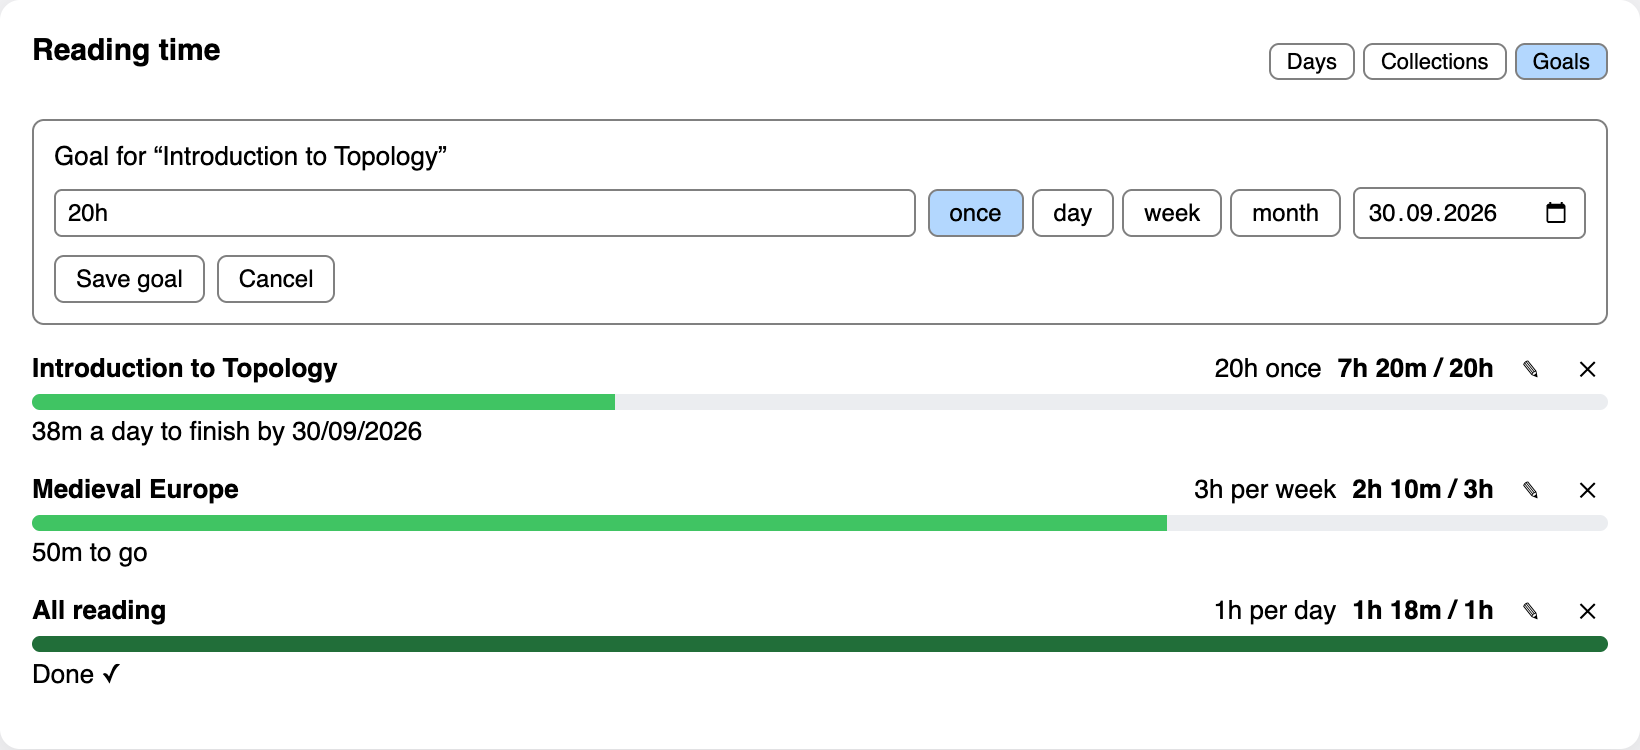
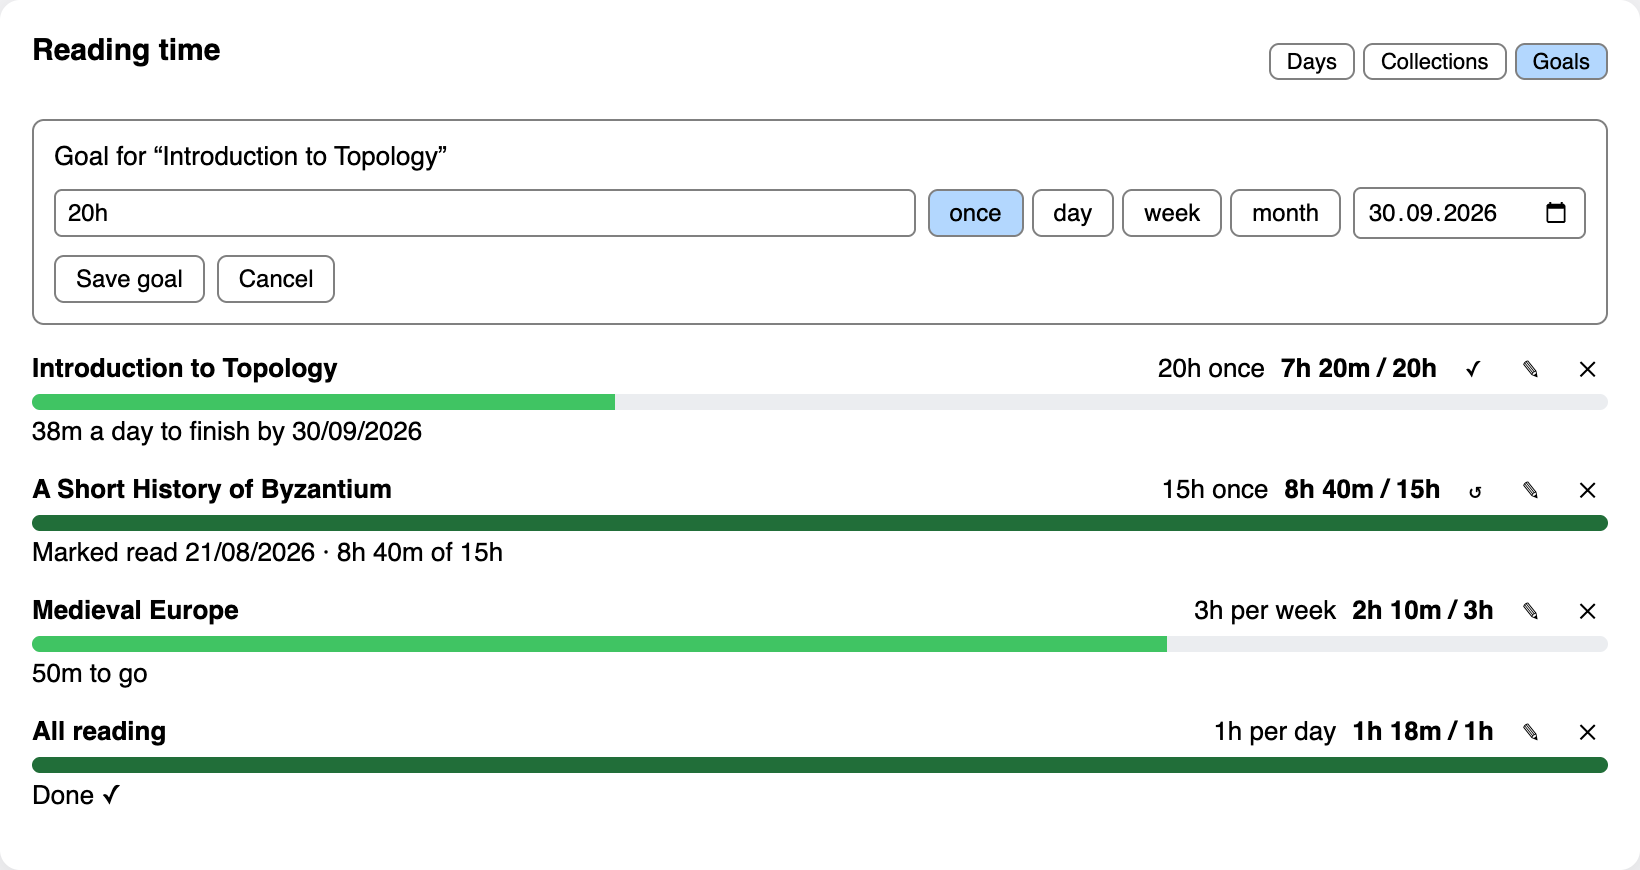
Mark a goal read when you finish early
A goal you meet ahead of the estimate could only be deleted, which throws away
the record of having read the thing. One-off goals now have a ✓ that marks
them read: done however much time it took, bar full, no more pace nag, no
"goal reached" announcement later. ↺ reopens it. The footer keeps the truth —
"Marked read 21/08 · 8h 40m of 15h" — rather than inflating the time.

Recurring goals don't get the button: a weekly target starts again on Monday,
so there is nothing to finish.

This is the first change needing a column on an existing table, so migrate()
arrives with it — driven by PRAGMA table_info rather than the version stamp,
since CREATE TABLE IF NOT EXISTS already gives a fresh database every column
and a version-driven ALTER would fail on it.

Changed region(s): [[0.0, 0.0307, 0.9951, 0.92], [0.0, 0.0307, 0.1555, 0.092], [0.964, 0.3987, 0.9951, 0.4293]]

diff --git a/bootstrap.js b/bootstrap.js
@@ -114,8 +114,9 @@ const GOAL_SCHEMA = [
 		seconds    INTEGER NOT NULL CHECK (seconds > 0),
 		period     TEXT NOT NULL CHECK (period IN ('total', 'day', 'week', 'month')),
 		deadline   INTEGER,                   -- unix ms; only meaningful with 'total'
-		notifiedAt INTEGER,                   -- when this goal was last announced
-		updatedAt  INTEGER NOT NULL
+		notifiedAt  INTEGER,                  -- when this goal was last announced
+		completedAt INTEGER,                  -- marked read early; done regardless of time
+		updatedAt   INTEGER NOT NULL
 	)`,
 	// One goal per target per period. IFNULL, because SQLite counts NULLs as
 	// distinct and 'all' goals would otherwise multiply freely.
@@ -123,12 +124,11 @@ const GOAL_SCHEMA = [
 		ON goals (libraryID, scope, IFNULL(key, ''), period)`,
 ];
 
-const GOAL_COLS = ["id", "libraryID", "scope", "key", "seconds", "period", "deadline", "notifiedAt", "updatedAt"];
+const GOAL_COLS = ["id", "libraryID", "scope", "key", "seconds", "period", "deadline", "notifiedAt", "completedAt", "updatedAt"];
 
-// Bump when a change needs more than a new table: CREATE TABLE IF NOT EXISTS
-// covers new tables on old files, but nothing else. Numbered steps go in
-// migrate(); there are none yet, because v1 only adds tables.
-const DB_VERSION = 1;
+// Bump when the shape changes; the stamp is a marker for migrations that can't
+// be made idempotent. Adding a column doesn't need one — see migrate().
+const DB_VERSION = 2;
 
 // <Zotero data dir>/time-tracker.sqlite — ours alone, next to zotero.sqlite.
 //
@@ -154,6 +154,7 @@ async function openDB() {
 		// SQLITE_BUSY, and that must not take the rest of the open down with it.
 		await conn.queryAsync("PRAGMA journal_mode = DELETE").catch(oops);
 		for (const sql of SCHEMA.concat(GOAL_SCHEMA)) await conn.queryAsync(sql);
+		await migrate(conn);
 		const version = Number(await conn.valueQueryAsync("PRAGMA user_version")) || 0;
 		if (version !== DB_VERSION) await conn.queryAsync(`PRAGMA user_version = ${DB_VERSION}`);
 		for (const row of await conn.queryAsync("SELECT * FROM sessions ORDER BY started")) {
@@ -171,6 +172,16 @@ async function openDB() {
 	db = conn;                       // only now can anything else use it
 	refreshViews();
 	paint();
+}
+
+// Columns added to an existing table. Driven by what the file actually has
+// rather than by the version stamp: CREATE TABLE IF NOT EXISTS gives a fresh
+// database every column already, so a version-driven ALTER would fail on it.
+async function migrate(conn) {
+	const columns = (await conn.queryAsync("PRAGMA table_info(goals)")).map((r) => r.name);
+	if (!columns.includes("completedAt")) {
+		await conn.queryAsync("ALTER TABLE goals ADD COLUMN completedAt INTEGER");
+	}
 }
 
 async function closeDB() {
@@ -489,6 +500,9 @@ const CSS = `
 .rt-panel .rt-add button { flex:0 0 auto; }
 .rt-panel .rt-goal { margin-top:8px; }
 .rt-panel .rt-goalbtn { width:100%; margin-top:8px; }
+.rt-panel .rt-mark { flex:0 0 auto; font:11px sans-serif; padding:0 5px; margin-left:4px;
+	border:1px solid transparent; border-radius:4px; background:transparent; color:CanvasText; cursor:pointer; }
+.rt-panel .rt-goal:hover .rt-mark { border-color:GrayText; }
 .rt-panel .rt-goaledit { margin-top:8px; border-top:1px solid GrayText; padding-top:8px; }
 .rt-panel .rt-seg { display:flex; gap:4px; margin-top:6px; }
 .rt-panel .rt-seg button.on { background:Highlight; color:HighlightText; }
@@ -760,6 +774,16 @@ function fillPanel(doc, box, item, reader) {
 		const bar = el(doc, "div", "bar");
 		const fill = el(doc, "i");
 		bar.append(fill);
+		let mark = null;
+		if (canComplete(g)) {
+			mark = el(doc, "button", "rt-mark");
+			mark.addEventListener("click", (e) => {
+				e.stopPropagation();          // don't open the editor as well
+				toggleComplete(g);
+				rebuild();
+			});
+			head.append(mark);
+		}
 		wrap.append(head, bar);
 		if (g.scope === "item") {
 			wrap.title = "Change this goal";
@@ -767,7 +791,7 @@ function fillPanel(doc, box, item, reader) {
 			wrap.addEventListener("click", () => editing(true));
 		}
 		box.insertBefore(wrap, add);
-		return { g, label, value, fill };
+		return { g, label, value, fill, mark };
 	});
 
 	// Setting a goal without leaving the book. The item's own goal is the one
@@ -848,6 +872,10 @@ function fillPanel(doc, box, item, reader) {
 			b.value.textContent = `${fmtTotal(done) || "0m"} / ${fmtTotal(b.g.seconds)}`;
 			b.fill.style.width = Math.round(ratio * 100) + "%";
 			b.fill.className = ratio >= 1 ? "done" : "";
+			if (b.mark) {
+				b.mark.textContent = b.g.completedAt ? "↺" : "✓";
+				b.mark.title = b.g.completedAt ? "Reopen this goal" : "Mark as read — finished early";
+			}
 		}
 		pomLabel.textContent = `🍅 Focus ${focusMin}m`;
 		stats.forEach(([, get], i) => { values[i].textContent = fmtTotal(safe(get, 0)) || "0m"; });
@@ -971,18 +999,32 @@ function goalProgress(rows, goal, matches, now) {
 	for (const r of rows) {
 		if (r.started >= since && matches(r)) done += r.seconds;
 	}
-	return { done, target: goal.seconds, ratio: Math.max(0, Math.min(1, done / goal.seconds)) };
+	// Marked read counts as finished however much time it took — reading faster
+	// than you estimated is a good outcome, not an unmet goal.
+	const complete = !!goal.completedAt;
+	return {
+		done, target: goal.seconds, complete,
+		ratio: complete ? 1 : Math.max(0, Math.min(1, done / goal.seconds)),
+	};
 }
 
 // What you'd have to average from now on to land a deadline. null when there is
 // nothing to pace: no deadline, already done, or the day has arrived.
 function goalPace(goal, done, now) {
-	if (goal.period !== "total" || !goal.deadline || done >= goal.seconds) return null;
+	if (goal.completedAt || goal.period !== "total" || !goal.deadline || done >= goal.seconds) return null;
 	const days = Math.ceil((startOfDay(goal.deadline) - startOfDay(now)) / DAY) + 1;
 	return days > 0 ? { perDay: (goal.seconds - done) / days, days } : null;
 }
 
-const periodLabel = { total: "in total", day: "per day", week: "per week", month: "per month" };
+const periodLabel = { total: "once", day: "per day", week: "per week", month: "per month" };
+
+// A recurring goal resets; there is nothing to finish early.
+const canComplete = (g) => g.period === "total";
+
+function toggleComplete(g) {
+	g.completedAt = g.completedAt ? null : Date.now();
+	saveGoal(g);
+}
 
 // The sessions a goal counts. Resolved when asked, never stored: collection
 // membership changes, and an orphaned goal must report itself rather than
@@ -1026,6 +1068,7 @@ function goalsFor(item) {
 function checkGoals() {
 	const now = Date.now();
 	for (const g of goals) {
+		if (g.completedAt) continue;   // already settled, by hand
 		const matches = goalMatcher(g);
 		if (!matches) continue;
 		const { done, ratio } = goalProgress(log, g, matches, now);
@@ -1297,6 +1340,13 @@ function sessionRow(doc, win, r) {
 	if (live) {
 		act.append(el(doc, "span", "n", "stop the timer to edit"));
 	} else {
+		if (canComplete(g)) {
+			const mark = el(doc, "button", null, g.completedAt ? "↺" : "✓");
+			mark.title = g.completedAt ? "Not finished after all — reopen this goal"
+				: "Mark as read — finished early";
+			mark.addEventListener("click", () => { toggleComplete(g); safe(() => buildHistory(win)); });
+			head.append(mark);
+		}
 		const edit = el(doc, "button", null, "✎");
 		edit.title = "Change this session's duration";
 		edit.addEventListener("click", (e) => { e.stopPropagation(); editSession(win, r); });
@@ -1428,7 +1478,7 @@ function buildGoals(doc, win) {
 	for (const g of rows) {
 		const matches = goalMatcher(g);
 		const name = goalTitle(g);
-		const { done, ratio } = matches ? goalProgress(log, g, matches, now) : { done: 0, ratio: 0 };
+		const { done, ratio, complete } = matches ? goalProgress(log, g, matches, now) : { done: 0, ratio: 0 };
 
 		const box = el(doc, "div", "goal");
 		const head = el(doc, "div", "goal-head");
@@ -1436,6 +1486,13 @@ function buildGoals(doc, win) {
 			el(doc, "span", "rt-muted", `${fmtTotal(g.seconds)} ${periodLabel[g.period]}`),
 			el(doc, "b", null, `${fmtTotal(done) || "0m"} / ${fmtTotal(g.seconds)}`));
 
+		if (canComplete(g)) {
+			const mark = el(doc, "button", null, g.completedAt ? "↺" : "✓");
+			mark.title = g.completedAt ? "Not finished after all — reopen this goal"
+				: "Mark as read — finished early";
+			mark.addEventListener("click", () => { toggleComplete(g); safe(() => buildHistory(win)); });
+			head.append(mark);
+		}
 		const edit = el(doc, "button", null, "✎");
 		edit.title = "Change this goal";
 		edit.addEventListener("click", () => { goalDraft = Object.assign({}, g, { title: name }); safe(() => buildHistory(win)); });
@@ -1448,12 +1505,13 @@ function buildGoals(doc, win) {
 		const bar = el(doc, "div", "bar");
 		const fill = el(doc, "i");
 		fill.style.width = Math.round(ratio * 100) + "%";
-		if (ratio >= 1) fill.className = "done";
+		if (ratio >= 1 || complete) fill.className = "done";
 		bar.append(fill);
 		box.append(bar);
 
 		const pace = matches && goalPace(g, done, now);
 		const foot = !matches ? "The item or collection this goal was set on is gone."
+			: g.completedAt ? `Marked read ${new Date(g.completedAt).toLocaleDateString()} · ${fmtTotal(done) || "0m"} of ${fmtTotal(g.seconds)}`
 			: pace ? `${fmtTotal(pace.perDay)} a day to finish by ${new Date(g.deadline).toLocaleDateString()}`
 			: ratio >= 1 ? "Done ✓" : `${fmtTotal(g.seconds - done)} to go`;
 		box.append(el(doc, "div", "rt-muted", foot));
@@ -1724,7 +1782,7 @@ function uninstall() {}
 
 // node-only: lets test.js import the pure helpers; no-op inside Zotero.
 if (typeof module !== "undefined") {
-	module.exports = { parseDuration, fmtTotal, fmtClock, sortKey, sumSeconds, startOfDay, historyByDay, heatmapWeeks, level, rollUp, fuzzy, periodStart, goalProgress, goalPace };
+	module.exports = { parseDuration, fmtTotal, fmtClock, sortKey, sumSeconds, startOfDay, historyByDay, heatmapWeeks, level, rollUp, fuzzy, periodStart, goalProgress, goalPace, canComplete };
 	// Enough of the machinery for test.js to drive a whole session. A smoke test
 	// is what catches an edit that quietly deletes a function everything calls.
 	module.exports.__internals = {

diff --git a/test.js b/test.js
@@ -1,6 +1,6 @@
 // Self-check for the pure helpers: `node test.js`.
 const assert = require("assert");
-const { parseDuration, fmtTotal, fmtClock, sortKey, sumSeconds, startOfDay, historyByDay, heatmapWeeks, level, rollUp, fuzzy, periodStart, goalProgress, goalPace } = require("./bootstrap.js");
+const { parseDuration, fmtTotal, fmtClock, sortKey, sumSeconds, startOfDay, historyByDay, heatmapWeeks, level, rollUp, fuzzy, periodStart, goalProgress, goalPace, canComplete } = require("./bootstrap.js");
 
 // A bare number means minutes; h/m/s are honoured; junk is ignored.
 assert.strictEqual(parseDuration("25"), 1500);
@@ -140,12 +140,22 @@ assert.ok(noon - periodStart("week", noon) < 7 * DAY);
 // Progress: only sessions in the window and matching the goal count.
 const goal = { seconds: 3600, period: "day" };
 const mineOnly = (r) => r.itemKey === "AAAA";
-assert.deepStrictEqual(goalProgress(log, goal, mineOnly, noon), { done: 600, target: 3600, ratio: 600 / 3600 });
-assert.deepStrictEqual(goalProgress(log, goal, () => true, noon), { done: 1200, target: 3600, ratio: 1200 / 3600 });
+assert.deepStrictEqual(goalProgress(log, goal, mineOnly, noon),
+	{ done: 600, target: 3600, complete: false, ratio: 600 / 3600 });
+assert.deepStrictEqual(goalProgress(log, goal, () => true, noon),
+	{ done: 1200, target: 3600, complete: false, ratio: 1200 / 3600 });
 assert.strictEqual(goalProgress(log, { seconds: 3600, period: "total" }, mineOnly, noon).done, 6000);
 // Ratio is clamped, so an overshot goal doesn't overflow its bar.
 assert.strictEqual(goalProgress(log, { seconds: 60, period: "total" }, mineOnly, noon).ratio, 1);
 assert.strictEqual(goalProgress([], goal, () => true, noon).done, 0);
+
+// Marked read early: done however little time it took, and no longer paced.
+const marked = { seconds: 72000, period: "total", completedAt: today, deadline: today + 3 * DAY };
+assert.deepStrictEqual(goalProgress(log, marked, mineOnly, noon),
+	{ done: 6000, target: 72000, complete: true, ratio: 1 });
+assert.strictEqual(goalPace(marked, 6000, noon), null, "a finished goal needs no pace");
+assert.ok(canComplete({ period: "total" }));
+assert.ok(!canComplete({ period: "week" }), "a recurring goal has nothing to finish");
 
 // Pace: only for a dated total that is still short.
 const dated = { seconds: 7200, period: "total", deadline: today + 3 * DAY };

diff --git a/README.md b/README.md
@@ -65,6 +65,12 @@ the **Goals** tab in the history window. A goal is a target plus a period:
   you'd need (`38m a day to finish by 30 Sep`);
 - `3h` **per week**, or per day, or per month — progress resets each period.
 
+Finished the book faster than you planned? **✓** marks a one-off goal read —
+it counts as done however much time it actually took, and the goal keeps the
+real figure (`Marked read 21/08 · 8h 40m of 15h`) rather than pretending you
+spent the hours. **↺** reopens it. Recurring goals have no ✓: a weekly target
+starts again on Monday, so there is nothing to finish early.
+
 Collection goals count sub-collections, and an item counts towards both its own
 goal and any collection goal covering it. `All reading` goals cover the whole
 library. Whatever you're reading shows its two most relevant goals as bars in
